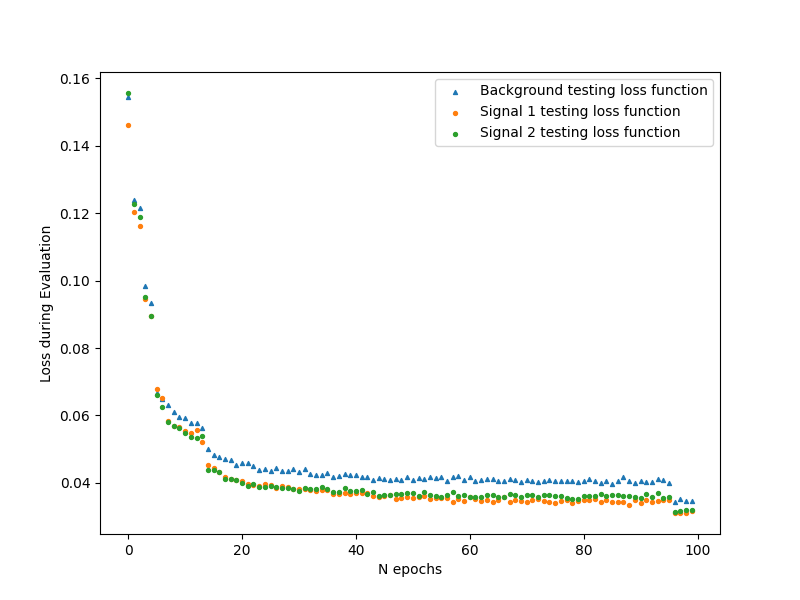
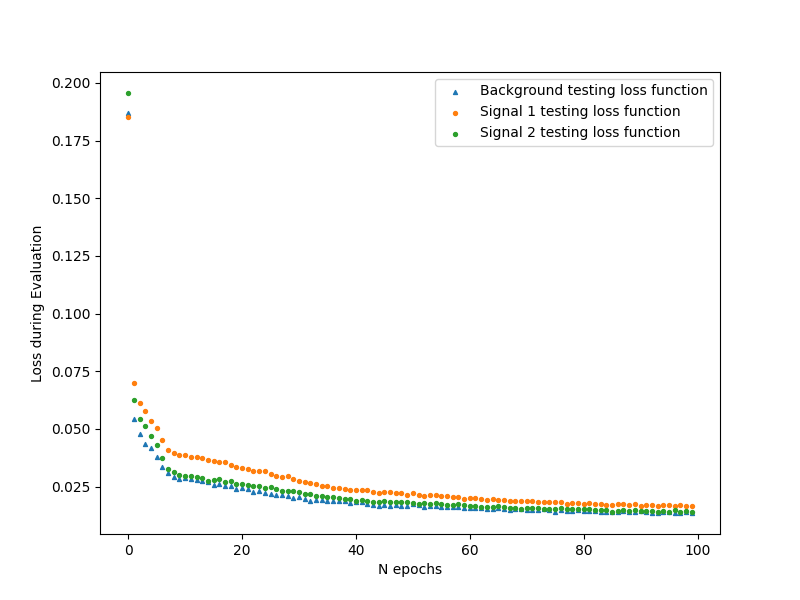
Training with minmax scaling and 21, 14 layer dimensions

diff --git a/autoencoder.py b/autoencoder.py
@@ -49,7 +49,7 @@ class AutoEncoder(nn.Module):
             nn.ReLU(),
             nn.Linear(mid_dim, input_dim),
             # nn.ReLU() # MinMax Scaling 
-            nn.ELU() # Standard Scaling
+            nn.PReLU() # Standard Scaling
         )
 
         # Initialize decoder weights with encoder weights
